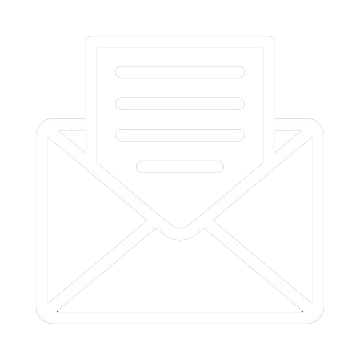
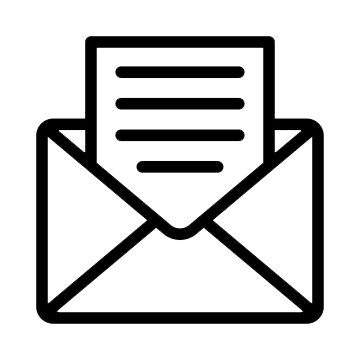
fix design

diff --git a/backend/mainapp/static/css/style.css b/backend/mainapp/static/css/style.css
@@ -117,31 +117,33 @@ ul li {
     background-color: #0056b3;
 }
 
-/* Default icon styles */
-.navbar-nav .nav-item .nav-link .nav-icon {
-    transition: filter 0.3s ease; /* smooth transition */
-}
-
-/* On hover, invert the image */
-.navbar-nav .nav-item .nav-link:hover .nav-icon {
-    filter: invert(1); /* Inverts the icon color */
-}
-
-/* Ensure the navbar items are vertically centered */
+/* Ensure the navbar items have proper alignment and the button width is correct */
 .navbar-nav .nav-item .nav-link {
-    display: flex;
-    align-items: center; /* Center both the icon and the text vertically */
-    padding-left: 10px;   /* Add space before the icon */
-    padding-right: 10px;  /* Optional: Add space after the icon */
+    display: flex;  /* Ensures the icon and text are aligned horizontally */
+    align-items: center;  /* Vertically center the content */
+    color: black !important;  /* Set the text color to black */
+    background-color: transparent !important;  /* Transparent background by default */
+    border-radius: .75rem;  /* Rounded corners */
+    transition: all 0.3s ease;  /* Smooth transition for hover effect */
+    width: auto;  /* Allow the width to adjust based on the content */
 }
 
-/* Add space between the icon and the text */
-.navbar-nav .nav-item .nav-link .nav-icon {
-    margin-right: 8px; /* Increase space between icon and text */
+/* Navbar button hover effects */
+.navbar-nav .nav-item .nav-link:hover {
+    color: white !important;  /* Text turns white on hover */
+    background-color: black !important;  /* Background turns black on hover */
 }
 
-/* Optionally, you can adjust the size of the icons */
+/* Make sure the icon is black by default */
 .navbar-nav .nav-item .nav-link .nav-icon {
-    width: 32px;
-    height: 32px;
+    filter: invert(1);  /* Default icon color (black) */
+    margin-right: 8px;  /* Add space between icon and text */
+    width: 24px;  /* Set the icon size */
+    height: 24px;  /* Set the icon size */
+}
+
+/* Optional: Reduce the padding for the navbar items (optional adjustment) */
+.navbar-nav .nav-item .nav-link {
+    padding-left: 12px;
+    padding-right: 12px;
 }
